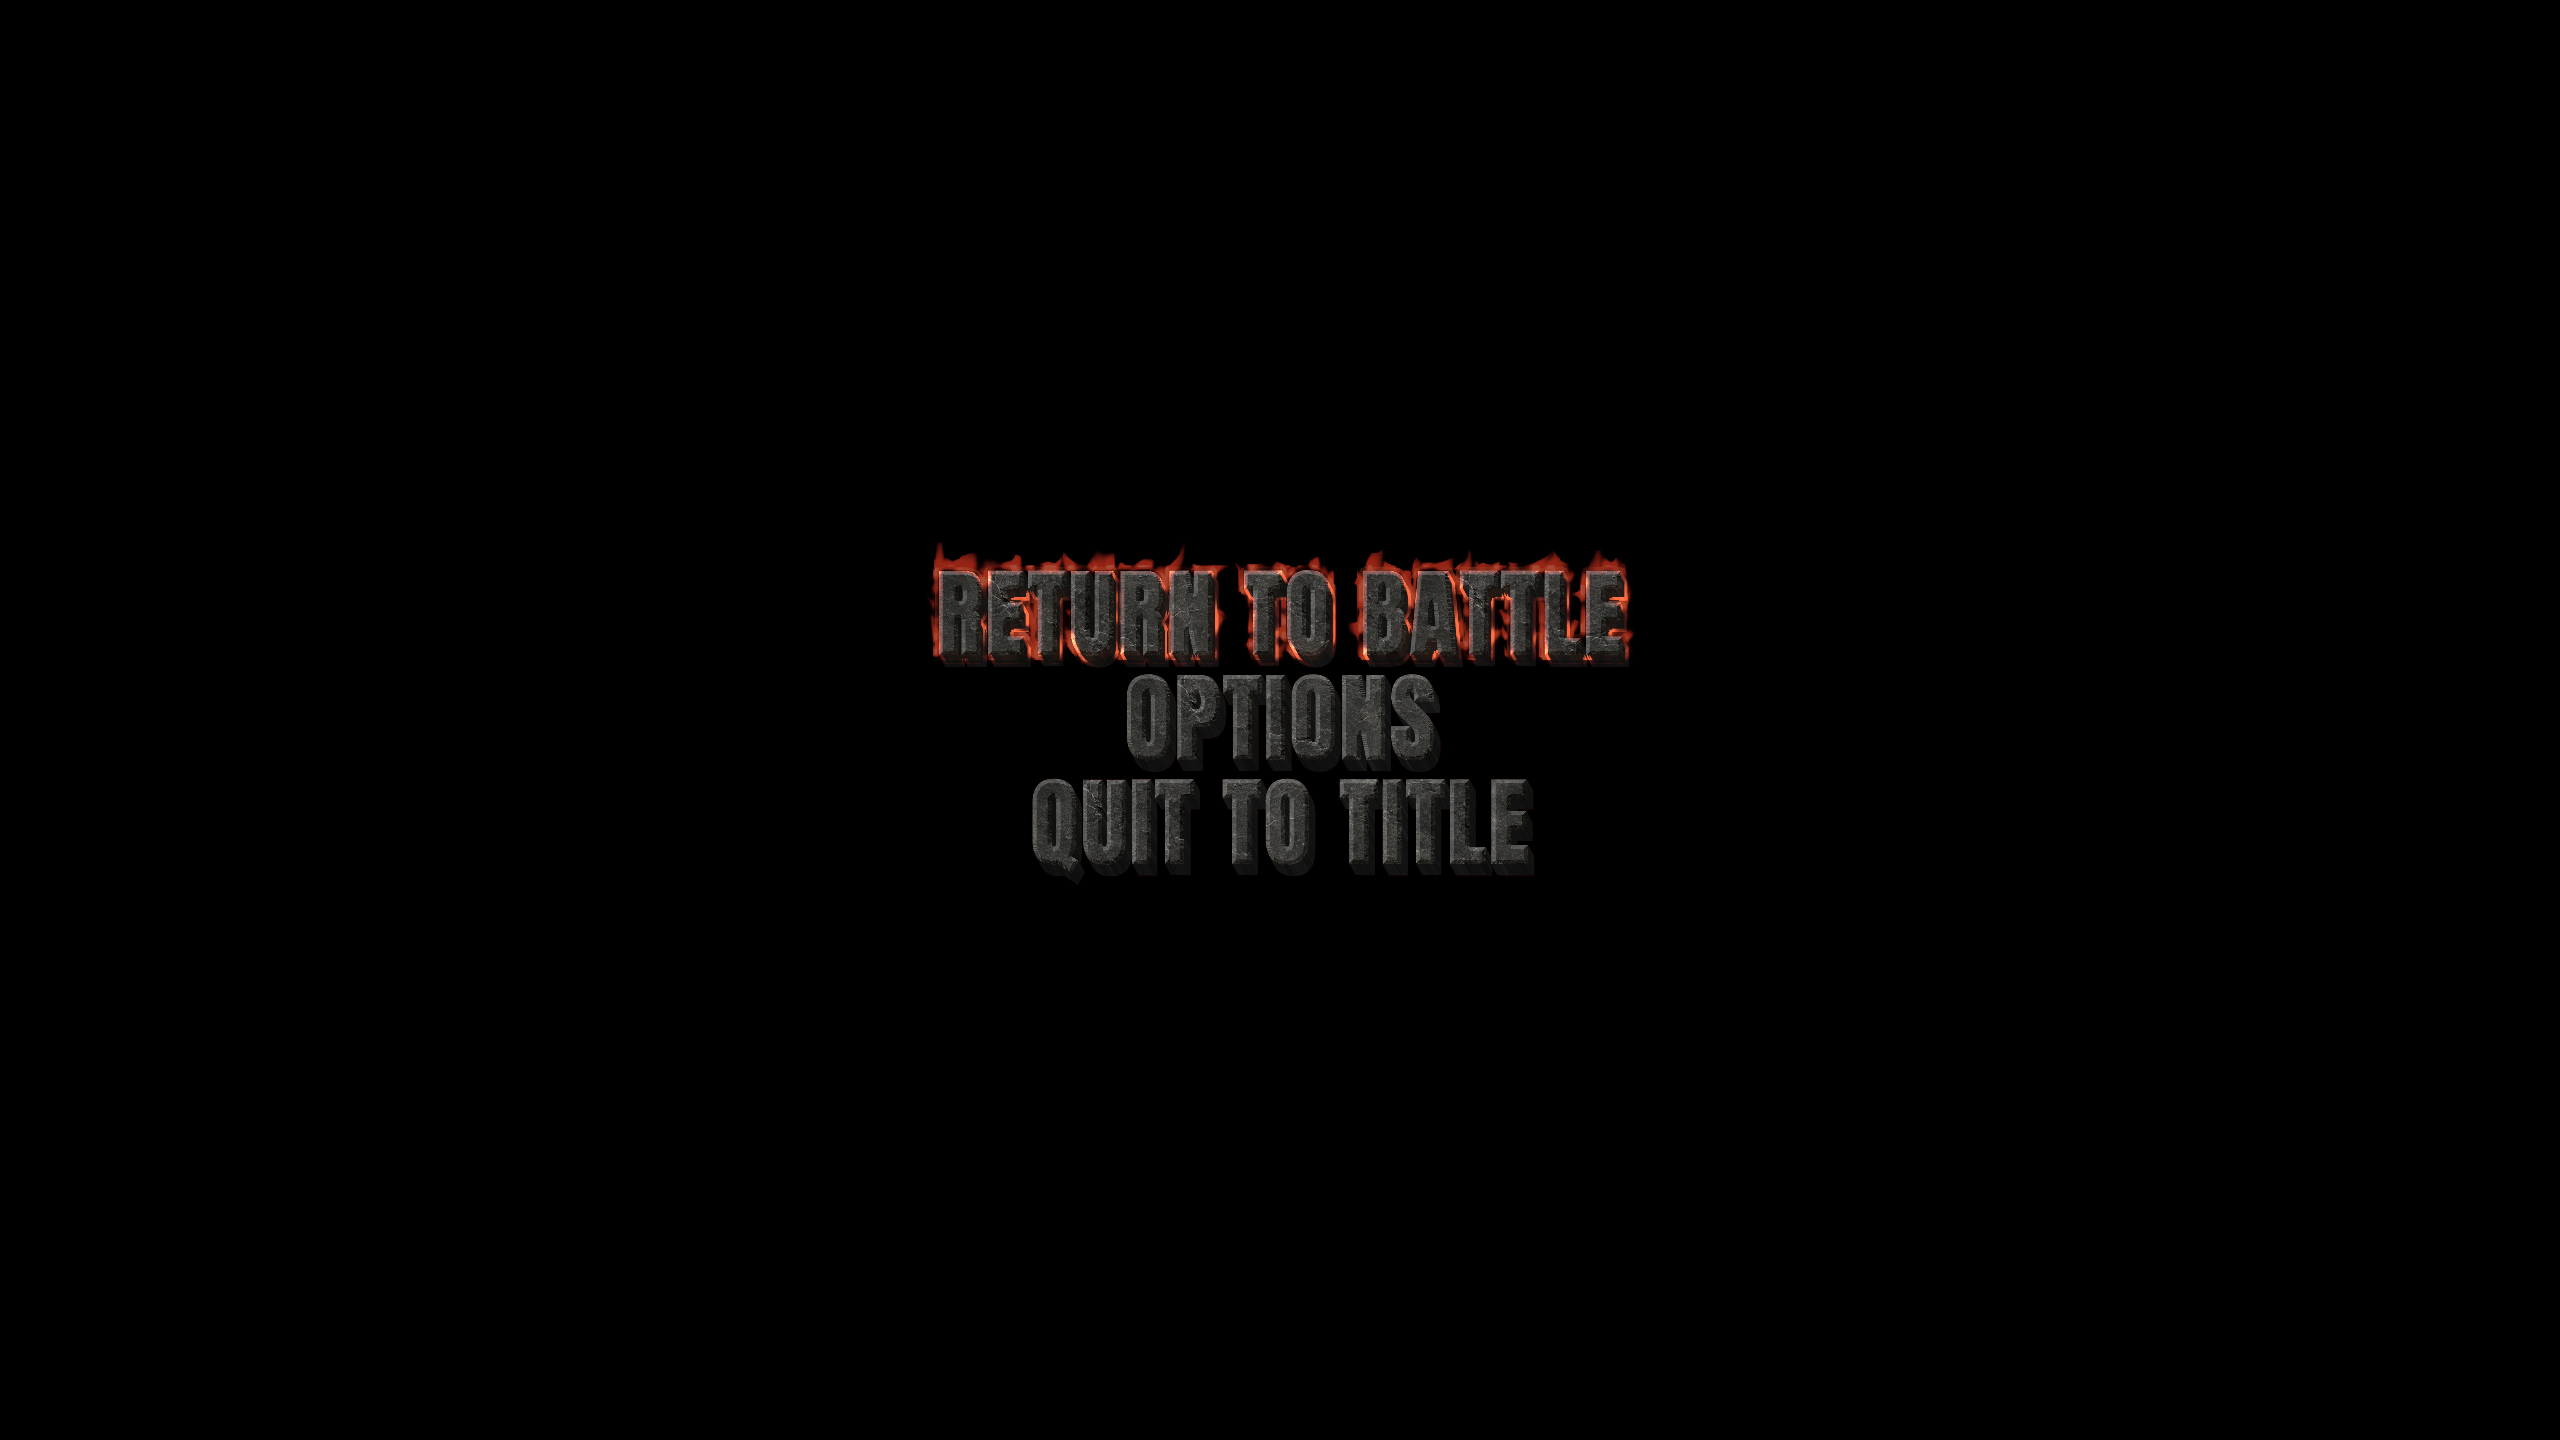
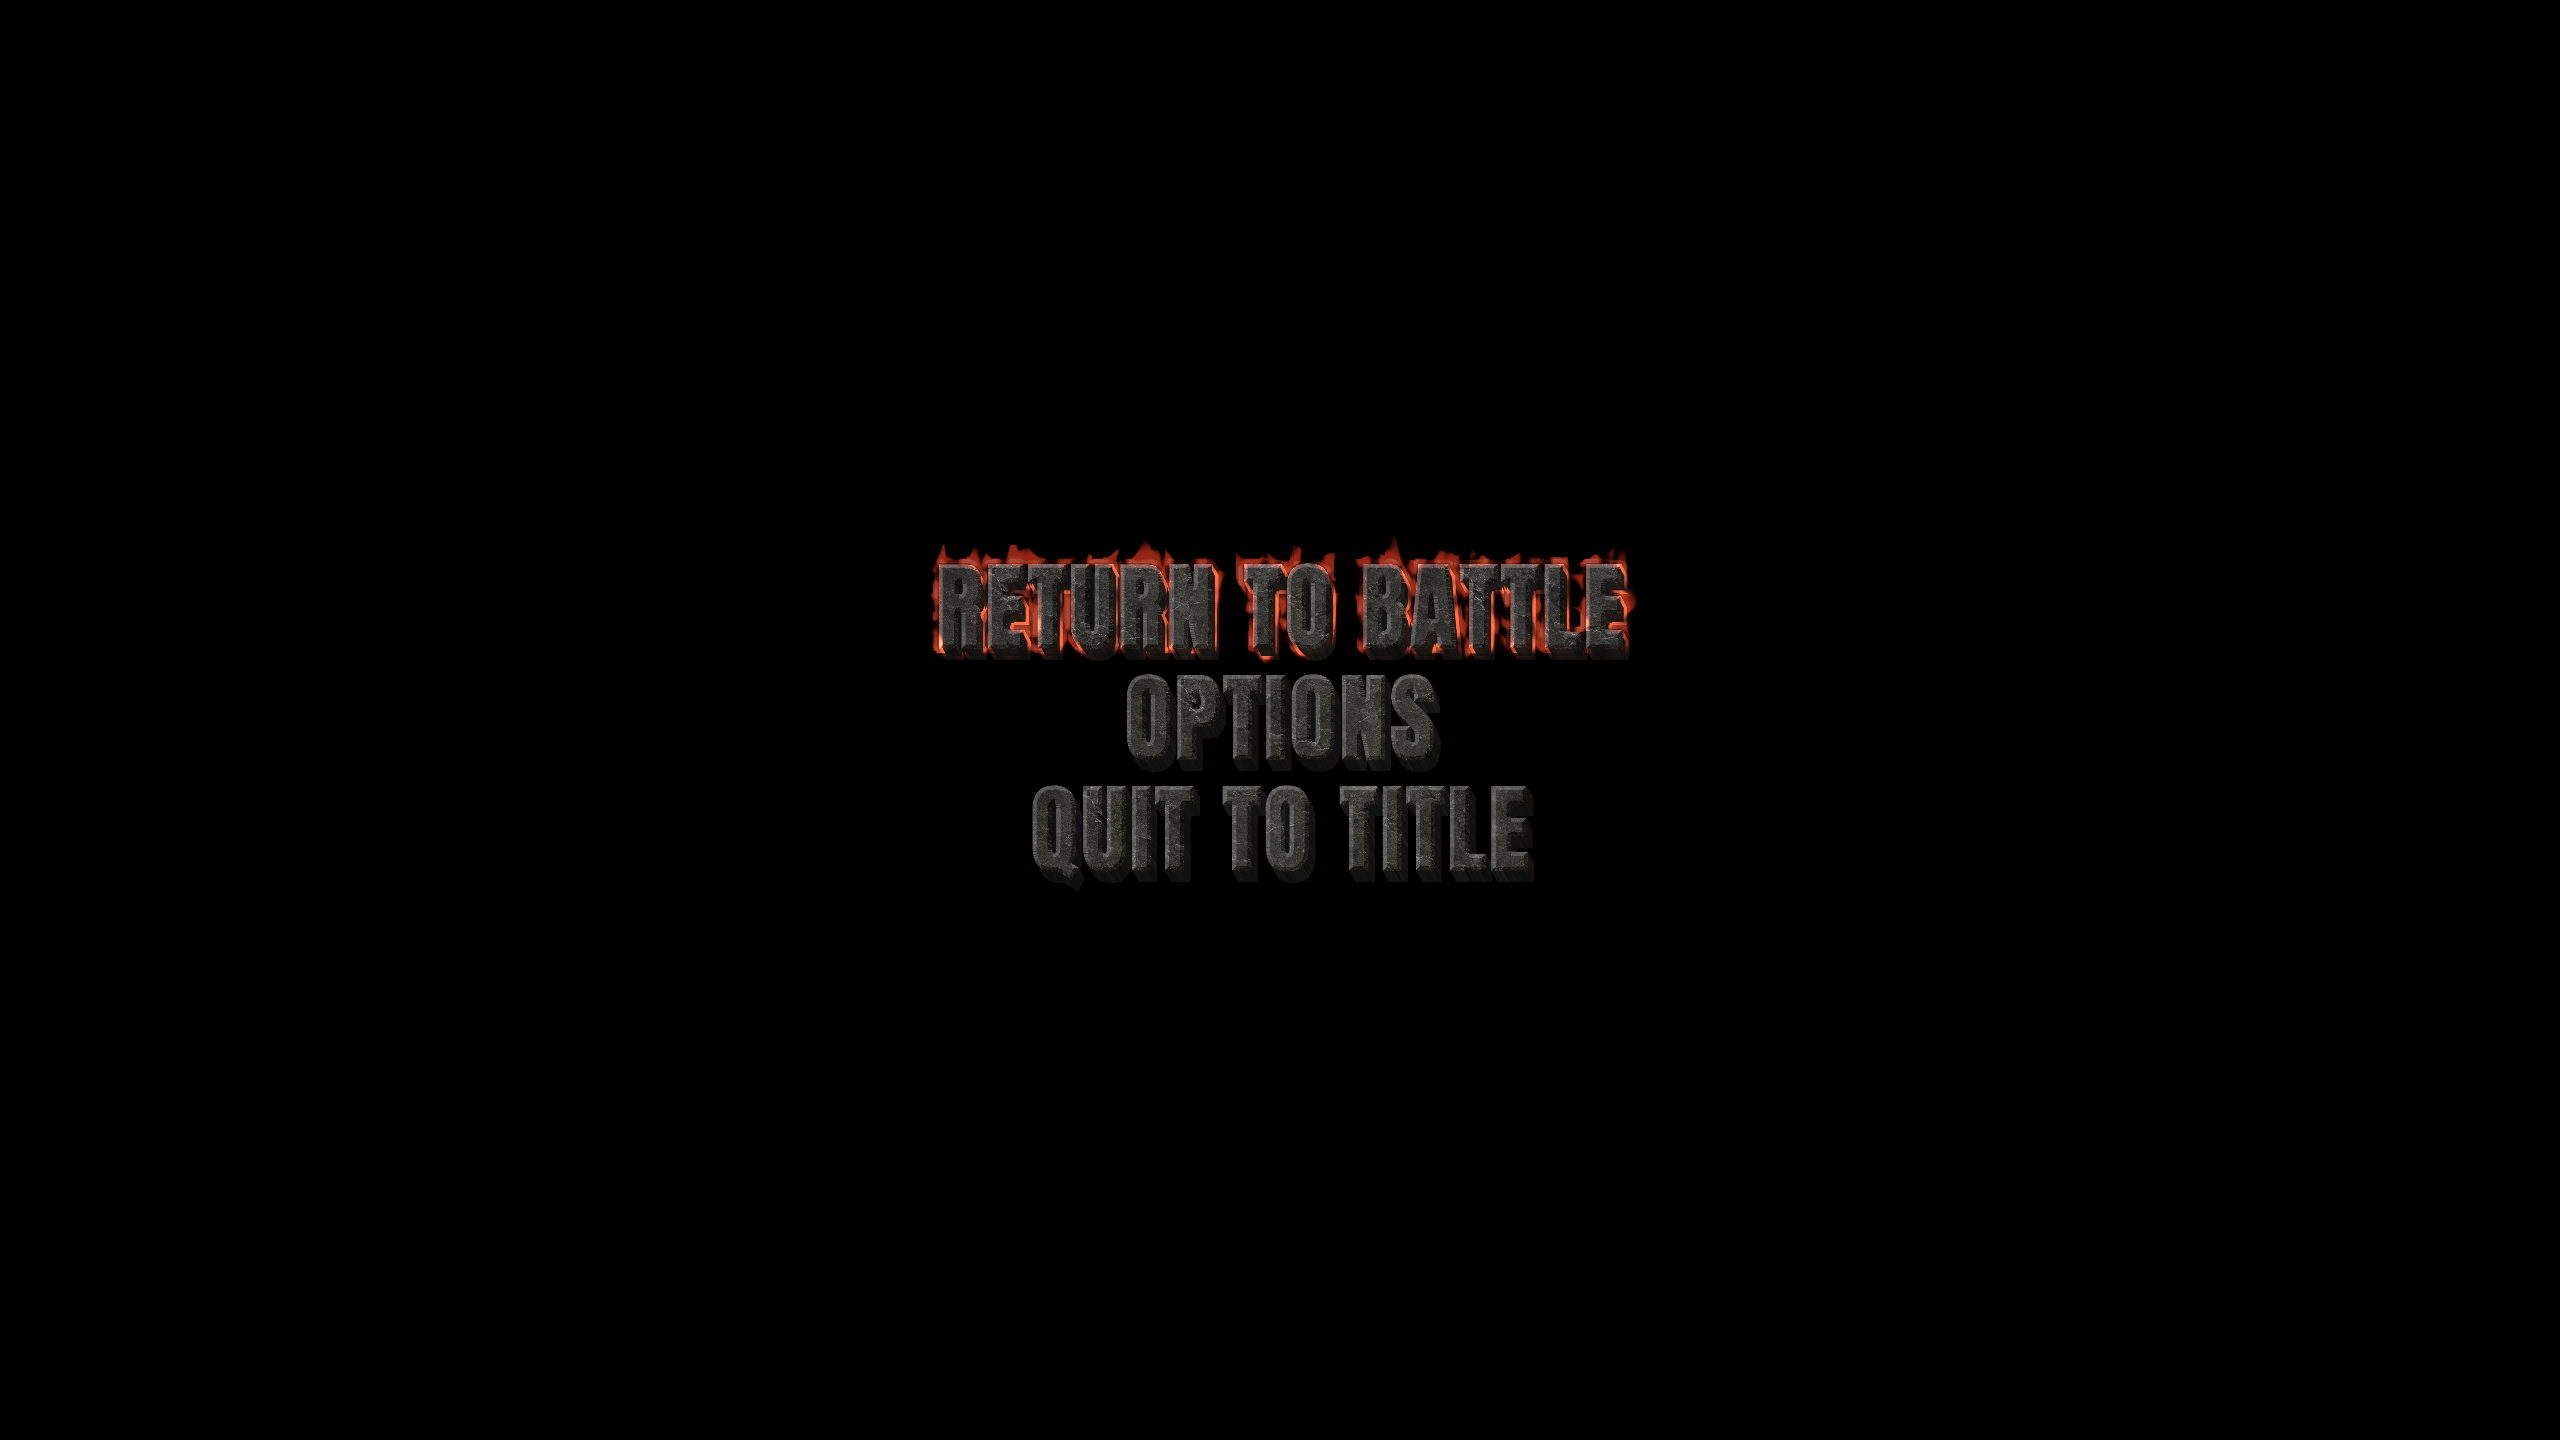
Revise approval preview to upward clenched axe carry and roomier pause spacing

Changed region(s): [[0.3438, 0.375, 0.6562, 0.4688], [0.4062, 0.5312, 0.5938, 0.625]]

diff --git a/studies/grip-pause/README.md b/studies/grip-pause/README.md
@@ -4,6 +4,6 @@ Pending visual approval; standard exports have not been updated.
 
 Walking: source-cell hand sockets are authored per frame in CairnArt.layout. Proposed near-hand carry uses a downward 190–198 degree angle and draws behind the body so fingers naturally cover the handle. Body art, weapon proportions, attack poses and colors are unchanged. walk-proposed.png shows all four walking frames; walk-before.png records the earlier far-hand carry.
 
-Pause: 22% tighter vertical item pitch, same font size and centered layout. Applies to pause and its options, not title/death menus.
+Pause: 17% tighter vertical item pitch, same font size and centered layout. Applies to pause and its options, not title/death menus.
 
 Validation: godot:test passed, followed by settings_menu.gd after restricting compact spacing to pause only. Native screenshots supplied for approval.
